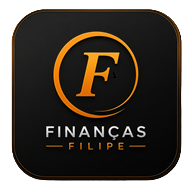
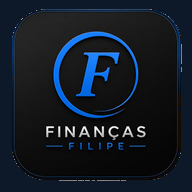
feat: botoes de duvidas, icones azuis, notificacao por email, remove dados pessoais do codigo

diff --git a/src/App.jsx b/src/App.jsx
@@ -6,7 +6,7 @@ import {
   Plus, Trash2, Wallet, X, TrendingUp, Repeat, Home, PieChart as PieIcon,
   Check, GraduationCap, Utensils, User, Car, ShoppingBag, Heart, Plane,
   Coffee, Tag, LogOut, Loader2, Clock, History, CheckCircle2, Bell, Zap,
-  FileDown, Shield, BarChart2, RefreshCw,
+  FileDown, Shield, BarChart2, RefreshCw, HelpCircle,
 } from "lucide-react";
 import { supabase } from "./supabase";
 import Auth from "./Auth";
@@ -51,6 +51,103 @@ const CATEGORIAS_PADRAO = [
 ];
 
 const CORES_PIZZA = ["#60a5fa", "#34d399", "#a78bfa", "#38bdf8", "#6ee7b7", "#93c5fd", "#4ade80", "#818cf8"];
+
+// Conteúdo do botão "Dúvidas" de cada seção — edite os textos aqui sempre que quiser mudar as explicações
+const AJUDA_CONTEUDO = {
+  home: {
+    titulo: "Como funciona a Home",
+    explicacao: "A Home mostra um resumo geral do seu mês: quanto entrou (receitas), quanto já foi pago, quanto ainda falta pagar e o saldo. Também mostra suas próximas assinaturas e permite gerar um relatório em PDF do mês.",
+    passos: [
+      "Cadastre suas receitas do mês na aba Receitas para o saldo aparecer aqui.",
+      "Conforme você marca despesas como pagas, os cards 'Pago' e 'A pagar' vão se atualizando sozinhos.",
+      "Clique em 'Gerar Relatório do Mês' quando quiser baixar um PDF com tudo o que aconteceu no mês.",
+    ],
+  },
+  despesas: {
+    titulo: "Como funciona Despesas",
+    explicacao: "Aqui ficam seus gastos do mês, separados em 'Pendentes' (ainda não pagos) e 'Histórico' (já pagos). Uma despesa também pode ser parcelada direto por aqui.",
+    passos: [
+      "Clique em 'Nova' e preencha a descrição (ex: Almoço), o valor e a data de vencimento.",
+      "Se quiser dividir em várias vezes, mude o campo 'Parcelas' — o valor de cada parcela é calculado automaticamente.",
+      "Quando pagar uma despesa, clique no ícone de check (✓) para marcá-la como paga e ela vai para o Histórico.",
+    ],
+  },
+  receitas: {
+    titulo: "Como funciona Receitas",
+    explicacao: "É onde você registra o dinheiro que entra no mês, como salário, freelas ou qualquer outra fonte de renda. É a partir daqui que o app calcula seu saldo.",
+    passos: [
+      "Clique em 'Nova' e informe de onde veio o dinheiro (ex: Salário) e o valor.",
+      "A receita é sempre associada ao mês atual automaticamente.",
+      "Repita sempre que receber um novo valor, mesmo que seja mais de uma vez no mês.",
+    ],
+  },
+  assinaturas: {
+    titulo: "Como funcionam as Assinaturas",
+    explicacao: "Assinaturas são gastos fixos que se repetem todo mês, como Netflix ou academia. O app gera automaticamente uma despesa desse valor todo mês, no dia de vencimento que você escolher.",
+    passos: [
+      "Clique em 'Nova' e informe o nome (ex: Netflix), o valor e o dia do mês em que ela vence.",
+      "Assim que o mês virar, o app cria sozinho a despesa correspondente na aba Despesas.",
+      "Se cancelar o serviço, é só remover a assinatura daqui que ela para de gerar novas despesas.",
+    ],
+  },
+  parcelamentos: {
+    titulo: "Como funcionam os Parcelamentos",
+    explicacao: "Parcelamentos servem para compras grandes divididas em várias vezes, como um celular em 10x. Diferente da despesa parcelada simples, aqui você acompanha o progresso de pagamento parcela por parcela.",
+    passos: [
+      "Clique em 'Novo' e informe a descrição (ex: Monitor), o valor total e em quantas parcelas foi dividido.",
+      "A barra de progresso mostra quantas parcelas já foram pagas em relação ao total.",
+      "Clique em 'Marcar próxima como paga' sempre que uma parcela for quitada.",
+    ],
+  },
+  grafico: {
+    titulo: "Como funciona o Gráfico",
+    explicacao: "Essa aba mostra a evolução das suas finanças nos últimos 6 meses, comparando receitas, despesas pagas, pendentes e assinaturas mês a mês.",
+    passos: [
+      "Passe o mouse sobre os gráficos para ver os valores exatos de cada mês.",
+      "Use o primeiro gráfico para comparar quanto entrou (receitas) com quanto saiu (pagas).",
+      "Use o segundo gráfico para ver o quanto ainda está pendente e o peso das assinaturas fixas.",
+    ],
+  },
+  historico: {
+    titulo: "Como funciona o Histórico",
+    explicacao: "O Histórico reúne, em ordem, tudo que já aconteceu nas suas finanças: despesas pagas, receitas recebidas e parcelas quitadas — uma espécie de linha do tempo.",
+    passos: [
+      "Use essa aba quando quiser conferir tudo que já foi movimentado, sem precisar entrar em cada seção separada.",
+      "É útil para revisar o mês antes de gerar o relatório em PDF na Home.",
+    ],
+  },
+};
+
+function BotaoAjuda({ topico }) {
+  const [aberto, setAberto] = useState(false);
+  const conteudo = AJUDA_CONTEUDO[topico];
+  if (!conteudo) return null;
+  return (
+    <>
+      <button
+        onClick={() => setAberto(true)}
+        title="Dúvidas"
+        className="w-8 h-8 shrink-0 rounded-full bg-white/[0.05] border border-blue-900/30 text-slate-400/70 hover:text-blue-400 hover:border-blue-500/40 transition flex items-center justify-center"
+      >
+        <HelpCircle size={15} />
+      </button>
+      {aberto && (
+        <ModalBase titulo={conteudo.titulo} onFechar={() => setAberto(false)}>
+          <p className="font-body text-sm text-slate-300 leading-relaxed">{conteudo.explicacao}</p>
+          <div className="bg-white/[0.03] border border-blue-900/20 rounded-xl p-4 space-y-3">
+            <p className="font-mono-c text-[10px] text-slate-400/60 uppercase">Passo a passo</p>
+            {conteudo.passos.map((p, i) => (
+              <div key={i} className="flex gap-3 items-start">
+                <span className="font-mono-c text-xs text-blue-400 font-bold mt-0.5">{i + 1}</span>
+                <p className="font-body text-sm text-slate-300">{p}</p>
+              </div>
+            ))}
+          </div>
+        </ModalBase>
+      )}
+    </>
+  );
+}
 
 const formatBRL = (v) => new Intl.NumberFormat("pt-BR", { style: "currency", currency: "BRL" }).format(v || 0);
 const hojeISO = () => new Date().toISOString().split("T")[0];
@@ -433,7 +530,7 @@ function GraficoAba({ despesas, receitas, assinaturas }) {
 
   return (
     <div className="space-y-8 animate-fadeInUp">
-      <div><p className="font-mono-c text-[10px] text-slate-400/60 uppercase">Visão financeira</p><h2 className="font-display text-3xl italic text-slate-100 mt-1">Gráfico — últimos 6 meses</h2></div>
+      <div className="flex items-center gap-3"><BotaoAjuda topico="grafico"/><div><p className="font-mono-c text-[10px] text-slate-400/60 uppercase">Visão financeira</p><h2 className="font-display text-3xl italic text-slate-100 mt-1">Gráfico — últimos 6 meses</h2></div></div>
 
       <div className="bg-[#0d1829] border border-blue-900/30 rounded-2xl p-6">
         <h3 className="font-display text-lg italic text-slate-200 mb-6">Receitas vs Despesas Pagas</h3>
@@ -705,7 +802,7 @@ function HistoricoAba({ despesas, assinaturas, receitas, parcelamentos, userNome
   return (
     <div className="space-y-8 animate-fadeInUp">
       <div className="flex items-end justify-between flex-wrap gap-4">
-        <div><p className="font-mono-c text-[10px] text-slate-400/60 uppercase">Histórico de Meses</p><h2 className="font-display text-3xl italic text-slate-100 mt-1">{nomeMes(mesSelecionado)}</h2></div>
+        <div className="flex items-center gap-3"><BotaoAjuda topico="historico"/><div><p className="font-mono-c text-[10px] text-slate-400/60 uppercase">Histórico de Meses</p><h2 className="font-display text-3xl italic text-slate-100 mt-1">{nomeMes(mesSelecionado)}</h2></div></div>
         <button onClick={gerarPDFMes} className="px-5 py-2.5 rounded-full bg-blue-600 hover:bg-blue-500 text-white font-body text-sm flex items-center gap-2 transition-all"><FileDown size={14}/>Gerar PDF</button>
       </div>
       <div className="flex gap-2 flex-wrap">
@@ -758,7 +855,8 @@ function HomeAba({ quote, saldo, temReceitaNoMes, totalReceitasMes, totalDespesa
 
   return (
     <div className="space-y-10">
-      <section className="animate-fadeInUp delay-1 py-12 text-center">
+      <section className="animate-fadeInUp delay-1 py-12 text-center relative">
+        <div className="absolute top-0 right-0"><BotaoAjuda topico="home"/></div>
         <p className="font-display text-3xl italic leading-tight text-slate-100">"{quote.text}"</p>
         {quote.author && <p className="font-body text-sm text-slate-400/70 mt-3">— {quote.author}</p>}
       </section>
@@ -817,7 +915,7 @@ function DespesasAba({ despesasPendentes, despesasPagas, categorias, totalDespes
   return (
     <div className="space-y-8 animate-fadeInUp">
       <div className="flex items-end justify-between">
-        <div><p className="font-mono-c text-[10px] text-slate-400/60 uppercase">{subAba==="pendentes"?"A pagar":"Pago"}</p><h2 className="font-mono-c num-tabular text-4xl font-bold text-slate-100">{formatBRL(subAba==="pendentes"?totalPendentesMes:totalDespesasPagasMes)}</h2></div>
+        <div className="flex items-center gap-3"><BotaoAjuda topico="despesas"/><div><p className="font-mono-c text-[10px] text-slate-400/60 uppercase">{subAba==="pendentes"?"A pagar":"Pago"}</p><h2 className="font-mono-c num-tabular text-4xl font-bold text-slate-100">{formatBRL(subAba==="pendentes"?totalPendentesMes:totalDespesasPagasMes)}</h2></div></div>
         <button onClick={onAdicionar} className="px-4 py-2.5 rounded-full bg-blue-600 hover:bg-blue-500 text-white font-body text-sm flex items-center gap-2 transition-all"><Plus size={14}/>Nova</button>
       </div>
       <div className="flex gap-1 bg-white/[0.03] p-1 rounded-full w-fit border border-blue-900/30">
@@ -850,7 +948,7 @@ function ParcelamentosAba({ parcelamentos, categorias, onAdicionar, onRemover, o
   return (
     <div className="space-y-8 animate-fadeInUp">
       <div className="flex items-end justify-between">
-        <div><p className="font-mono-c text-[10px] text-slate-400/60 uppercase">Parcelamentos ativos</p><h2 className="font-mono-c num-tabular text-4xl font-bold text-slate-100">{ativos.length}</h2></div>
+        <div className="flex items-center gap-3"><BotaoAjuda topico="parcelamentos"/><div><p className="font-mono-c text-[10px] text-slate-400/60 uppercase">Parcelamentos ativos</p><h2 className="font-mono-c num-tabular text-4xl font-bold text-slate-100">{ativos.length}</h2></div></div>
         <button onClick={onAdicionar} className="px-4 py-2.5 rounded-full bg-blue-600 hover:bg-blue-500 text-white font-body text-sm flex items-center gap-2 transition-all"><Plus size={14}/>Novo</button>
       </div>
       <div className="bg-[#0d1829] border border-blue-900/30 rounded-2xl">
@@ -882,7 +980,7 @@ function ReceitasAba({ receitas, totalReceitasMes, onAdicionar, onRemover }) {
   return (
     <div className="space-y-8 animate-fadeInUp">
       <div className="flex items-end justify-between">
-        <div><p className="font-mono-c text-[10px] text-slate-400/60 uppercase">Receitas</p><h2 className="font-mono-c num-tabular text-4xl font-bold text-emerald-400">{formatBRL(totalReceitasMes)}</h2></div>
+        <div className="flex items-center gap-3"><BotaoAjuda topico="receitas"/><div><p className="font-mono-c text-[10px] text-slate-400/60 uppercase">Receitas</p><h2 className="font-mono-c num-tabular text-4xl font-bold text-emerald-400">{formatBRL(totalReceitasMes)}</h2></div></div>
         <button onClick={onAdicionar} className="px-4 py-2.5 rounded-full bg-emerald-600 hover:bg-emerald-500 text-white font-body text-sm flex items-center gap-2 transition-all"><Plus size={14}/>Nova</button>
       </div>
       <div className="bg-[#0d1829] border border-blue-900/30 rounded-2xl">
@@ -905,7 +1003,7 @@ function AssinaturasAba({ assinaturas, total, onAdicionar, onRemover }) {
   return (
     <div className="space-y-8 animate-fadeInUp">
       <div className="flex items-end justify-between">
-        <div><p className="font-mono-c text-[10px] text-slate-400/60 uppercase">Total mensal</p><h2 className="font-mono-c num-tabular text-4xl font-bold text-slate-100">{formatBRL(total)}</h2></div>
+        <div className="flex items-center gap-3"><BotaoAjuda topico="assinaturas"/><div><p className="font-mono-c text-[10px] text-slate-400/60 uppercase">Total mensal</p><h2 className="font-mono-c num-tabular text-4xl font-bold text-slate-100">{formatBRL(total)}</h2></div></div>
         <button onClick={onAdicionar} className="px-4 py-2.5 rounded-full bg-blue-600 hover:bg-blue-500 text-white font-body text-sm flex items-center gap-2 transition-all"><Plus size={14}/>Nova</button>
       </div>
       <div className="bg-[#0d1829] border border-blue-900/30 rounded-2xl">

diff --git a/supabase/functions/notificar-despesa/index.ts b/supabase/functions/notificar-despesa/index.ts
@@ -1,0 +1,106 @@
+// supabase/functions/notificar-despesa/index.ts
+//
+// Essa função roda no Supabase (não no seu computador). Ela é chamada
+// automaticamente pelo Database Webhook toda vez que uma linha nova
+// entra na tabela "despesas".
+//
+// O que ela faz, passo a passo:
+// 1. Recebe os dados da despesa recém-criada (o Supabase manda isso sozinho)
+// 2. Busca o e-mail do usuário dono dessa despesa
+// 3. Chama a API da Resend pra mandar o e-mail de notificação
+
+import { serve } from "https://deno.land/std@0.224.0/http/server.ts";
+import { createClient } from "https://esm.sh/@supabase/supabase-js@2";
+
+const RESEND_API_KEY = Deno.env.get("RESEND_API_KEY");
+const SUPABASE_URL = Deno.env.get("SUPABASE_URL");
+const SUPABASE_SERVICE_ROLE_KEY = Deno.env.get("SUPABASE_SERVICE_ROLE_KEY");
+
+// E-mail que vai aparecer como remetente. Enquanto você não verificar um
+// domínio próprio na Resend, use o domínio de testes deles: onboarding@resend.dev
+const EMAIL_REMETENTE = "Finanças <onboarding@resend.dev>";
+
+serve(async (req) => {
+  try {
+    const payload = await req.json();
+
+    // O Database Webhook do Supabase manda o registro novo dentro de "record"
+    const despesa = payload.record;
+    if (!despesa) {
+      return new Response(JSON.stringify({ erro: "Nenhuma despesa recebida" }), { status: 400 });
+    }
+
+    // Usamos a service role key aqui (só existe no servidor, nunca no front-end)
+    // pra poder consultar o e-mail do usuário dono da despesa.
+    const supabaseAdmin = createClient(SUPABASE_URL!, SUPABASE_SERVICE_ROLE_KEY!);
+    const { data: usuario, error: erroUsuario } = await supabaseAdmin.auth.admin.getUserById(despesa.user_id);
+
+    if (erroUsuario || !usuario?.user?.email) {
+      return new Response(JSON.stringify({ erro: "Usuário não encontrado" }), { status: 404 });
+    }
+
+    const emailDestino = usuario.user.email;
+    const valorFormatado = new Intl.NumberFormat("pt-BR", { style: "currency", currency: "BRL" }).format(
+      despesa.valor || 0
+    );
+
+    const respostaResend = await fetch("https://api.resend.com/emails", {
+      method: "POST",
+      headers: {
+        Authorization: `Bearer ${RESEND_API_KEY}`,
+        "Content-Type": "application/json",
+      },
+      body: JSON.stringify({
+        from: EMAIL_REMETENTE,
+        to: [emailDestino],
+        subject: `💸 Nova despesa: ${despesa.descricao} — ${valorFormatado}`,
+        html: `
+          <div style="background-color:#060d1a; padding: 32px 16px; font-family: 'Segoe UI', Arial, sans-serif;">
+            <div style="max-width: 480px; margin: auto; background-color:#0d1829; border: 1px solid #1e3a5f; border-radius: 20px; overflow: hidden;">
+
+              <!-- Cabeçalho -->
+              <div style="padding: 28px 28px 20px 28px; border-bottom: 1px solid #1e3a5f;">
+                <p style="margin:0; font-size:11px; letter-spacing:2px; text-transform:uppercase; color:#60a5fa;">Finanças Filipe</p>
+                <h1 style="margin:6px 0 0 0; font-size:22px; color:#f1f5f9;">Nova despesa registrada</h1>
+              </div>
+
+              <!-- Corpo -->
+              <div style="padding: 24px 28px;">
+                <div style="background-color: rgba(255,255,255,0.03); border: 1px solid #1e3a5f; border-radius: 14px; padding: 20px;">
+                  <p style="margin:0 0 14px 0; font-size:15px; color:#e2e8f0;">
+                    <span style="color:#94a3b8;">Descrição</span><br/>
+                    <strong>${despesa.descricao}</strong>
+                  </p>
+                  <p style="margin:0 0 14px 0; font-size:22px; color:#60a5fa; font-weight:bold;">
+                    ${valorFormatado}
+                  </p>
+                  <p style="margin:0; font-size:13px; color:#94a3b8;">
+                    Vencimento: ${despesa.data_vencimento || despesa.data || "—"}
+                  </p>
+                </div>
+              </div>
+
+              <!-- Rodapé -->
+              <div style="padding: 16px 28px 24px 28px;">
+                <p style="margin:0; font-size:12px; color:#64748b; line-height:1.5;">
+                  Você recebeu esse e-mail porque uma nova despesa foi cadastrada na sua conta do Finanças Filipe.
+                  Se não foi você, ignore este e-mail.
+                </p>
+              </div>
+
+            </div>
+          </div>
+        `,
+      }),
+    });
+
+    if (!respostaResend.ok) {
+      const erroTexto = await respostaResend.text();
+      return new Response(JSON.stringify({ erro: "Falha ao enviar e-mail", detalhes: erroTexto }), { status: 500 });
+    }
+
+    return new Response(JSON.stringify({ sucesso: true }), { status: 200 });
+  } catch (e) {
+    return new Response(JSON.stringify({ erro: e.message }), { status: 500 });
+  }
+});

diff --git a/src/Auth.jsx b/src/Auth.jsx
@@ -2,6 +2,9 @@ import React, { useState } from "react";
 import { Wallet, Mail, Lock, User, Loader2, ArrowLeft, KeyRound } from "lucide-react";
 import { supabase } from "./supabase";
 
+// Número de WhatsApp de contato, vindo do .env.local (não fica craveado no código).
+const WHATSAPP_NUMERO = import.meta.env.VITE_WHATSAPP_NUMERO;
+
 export default function Auth() {
   const [modo, setModo] = useState("login");
   const [email, setEmail] = useState("");
@@ -176,7 +179,7 @@ export default function Auth() {
                 <div className="bg-blue-500/[0.07] border border-blue-500/20 rounded-xl p-3">
                   <p className="text-xs text-slate-400/80 font-body leading-relaxed">
                     🔑 <span className="text-blue-400 font-medium">Acesso restrito por token.</span><br />
-                    Como esse site é visível a todos, algumas permissões são restritas. Entre em contato com o Filipe sobre dúvidas e o seu TOKEN.
+                    Como esse site é visível a todos, algumas permissões são restritas. Entre em contato com quem te deu acesso sobre dúvidas e o seu TOKEN.
                   </p>
                 </div>
               </>
@@ -213,17 +216,19 @@ export default function Auth() {
 
         <div className="mt-8 text-center space-y-2">
           <p className="font-body text-[11px] text-slate-400/25">created by Filipe Oliveira</p>
-          <p className="font-body text-xs text-slate-400/50">
-            Dúvida?{" "}
-            <a
-              href="https://wa.me/SEU_NUMERO_AQUI"
-              target="_blank"
-              rel="noopener noreferrer"
-              className="text-blue-400 hover:text-blue-300 underline underline-offset-2 transition-colors"
-            >
-              Entre em contato com o Filipe!
-            </a>
-          </p>
+          {WHATSAPP_NUMERO && (
+            <p className="font-body text-xs text-slate-400/50">
+              Dúvida?{" "}
+              <a
+                href={`https://wa.me/${WHATSAPP_NUMERO}`}
+                target="_blank"
+                rel="noopener noreferrer"
+                className="text-blue-400 hover:text-blue-300 underline underline-offset-2 transition-colors"
+              >
+                Entre em contato pelo WhatsApp!
+              </a>
+            </p>
+          )}
         </div>
       </div>
     </div>
